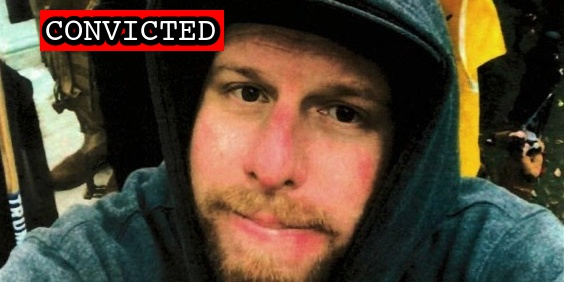
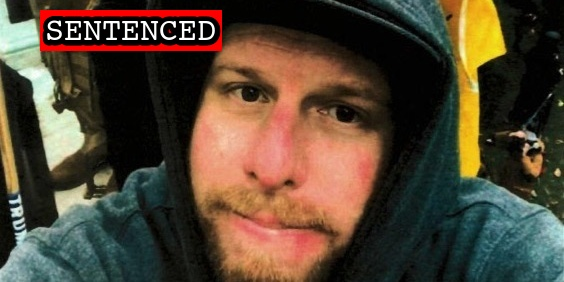
Add missing

Changed region(s): [[0.1809, 0.0567, 0.3316, 0.1702], [0.0603, 0.0567, 0.1507, 0.1702], [0.3918, 0.0284, 0.422, 0.1702]]

diff --git a/docs/_suspects/patrick-mccaughey.md b/docs/_suspects/patrick-mccaughey.md
@@ -17,7 +17,7 @@ plea_hearing:
 trial_date: 2022-08-29
 trial_type: Bench Trial
 jury_selection:
-sentencing: 2023-01-26
+sentencing: 2023-04-14
 status_conference:
 age: 23
 occupation:
@@ -40,53 +40,54 @@ caseNumber: 21-cr-0040
 caseName: USA v. MCCAUGHEY
 judge: Trevor N. McFadden
 videos:
-- title: Exhibit 1.mp4 (0:03:57)
-  url: https://propublica-data-j6cases-videos.s3.us-east-1.amazonaws.com/9a9444c0ce2c013960702cde48001122.mp4
-- title: Exhibit 3.mp4 (0:00:28)
-  url: https://propublica-data-j6cases-videos.s3.us-east-1.amazonaws.com/b4e4ed60ce2c013960702cde48001122.mp4
-- title: Exhibit 2.mp4 (0:00:21)
-  url: https://propublica-data-j6cases-videos.s3.us-east-1.amazonaws.com/b8429ab0ce2c013960702cde48001122.mp4
-- title: Exhibit 4.mp4 (0:00:24)
-  url: https://propublica-data-j6cases-videos.s3.us-east-1.amazonaws.com/b9b87ee0ce2c013960702cde48001122.mp4
+  - title: Exhibit 1.mp4 (0:03:57)
+    url: https://propublica-data-j6cases-videos.s3.us-east-1.amazonaws.com/9a9444c0ce2c013960702cde48001122.mp4
+  - title: Exhibit 3.mp4 (0:00:28)
+    url: https://propublica-data-j6cases-videos.s3.us-east-1.amazonaws.com/b4e4ed60ce2c013960702cde48001122.mp4
+  - title: Exhibit 2.mp4 (0:00:21)
+    url: https://propublica-data-j6cases-videos.s3.us-east-1.amazonaws.com/b8429ab0ce2c013960702cde48001122.mp4
+  - title: Exhibit 4.mp4 (0:00:24)
+    url: https://propublica-data-j6cases-videos.s3.us-east-1.amazonaws.com/b9b87ee0ce2c013960702cde48001122.mp4
 charges:
-- code: 18 USC § 111(a)(1), 2
-  title: Assaulting, resisting, or impeding certain officers or employees (Aiding and Abetting)
-  url: https://www.law.cornell.edu/uscode/text/18/111
-  felony: true
-- code: 18 USC § 111(a)(1) and (b)
-  title: Assaulting, resisting, or impeding certain officers or employees (using a deadly or dangerous weapon)
-  url: https://www.law.cornell.edu/uscode/text/18/111
-  felony: true
-- code: 18 USC § 111(a)(1)
-  title: Assaulting, resisting, or impeding certain officers or employees
-  url: https://www.law.cornell.edu/uscode/text/18/111
-  felony: true
-- code: 18 USC § 1512(c)(2),2
-  title: Obstruction of an Official Proceeding (Aiding and Abetting)
-  url: https://www.law.cornell.edu/uscode/text/18/1512
-  felony: true
-- code: 18 USC § 231(a)(3)
-  title: Obstruction of Law Enforcement During Civil Disorder
-  url: https://www.law.cornell.edu/uscode/text/18/231
-  felony: true
-- code: 18 USC § 1752(a)(2), (b)(1)(A)
-  title: Entering a restricted building or grounds with a dangerous or deadly weapon
-  url: https://www.law.cornell.edu/uscode/text/18/1752
-  felony: true
-- code: 18 USC § 1752(a)(4), (b)(1)(A)
-  title: Entering a restricted building or grounds with a dangerous or deadly weapon
-  url: https://www.law.cornell.edu/uscode/text/18/1752
-  felony: true
-- code: 40 USC § 5104(e)(2)(D)
-  title: Disorderly Conduct in a Capitol Building
-  url: https://www.law.cornell.edu/uscode/text/40/5104
-  felony: false
-- code: 40 USC § 5104(e)(2)(F)
-  title: Act of physical violence on Capitol grounds
-  url: https://www.law.cornell.edu/uscode/text/40/5104
-  felony: false
+  - code: 18 USC § 111(a)(1), 2
+    title: Assaulting, resisting, or impeding certain officers or employees (Aiding and Abetting)
+    url: https://www.law.cornell.edu/uscode/text/18/111
+    felony: true
+  - code: 18 USC § 111(a)(1) and (b)
+    title: Assaulting, resisting, or impeding certain officers or employees (using a deadly or dangerous weapon)
+    url: https://www.law.cornell.edu/uscode/text/18/111
+    felony: true
+  - code: 18 USC § 111(a)(1)
+    title: Assaulting, resisting, or impeding certain officers or employees
+    url: https://www.law.cornell.edu/uscode/text/18/111
+    felony: true
+  - code: 18 USC § 1512(c)(2),2
+    title: Obstruction of an Official Proceeding (Aiding and Abetting)
+    url: https://www.law.cornell.edu/uscode/text/18/1512
+    felony: true
+  - code: 18 USC § 231(a)(3)
+    title: Obstruction of Law Enforcement During Civil Disorder
+    url: https://www.law.cornell.edu/uscode/text/18/231
+    felony: true
+  - code: 18 USC § 1752(a)(2), (b)(1)(A)
+    title: Entering a restricted building or grounds with a dangerous or deadly weapon
+    url: https://www.law.cornell.edu/uscode/text/18/1752
+    felony: true
+  - code: 18 USC § 1752(a)(4), (b)(1)(A)
+    title: Entering a restricted building or grounds with a dangerous or deadly weapon
+    url: https://www.law.cornell.edu/uscode/text/18/1752
+    felony: true
+  - code: 40 USC § 5104(e)(2)(D)
+    title: Disorderly Conduct in a Capitol Building
+    url: https://www.law.cornell.edu/uscode/text/40/5104
+    felony: false
+  - code: 40 USC § 5104(e)(2)(F)
+    title: Act of physical violence on Capitol grounds
+    url: https://www.law.cornell.edu/uscode/text/40/5104
+    felony: false
 sentence:
 ---
+
 - [DOJ Press Release](https://www.justice.gov/usao-dc/pr/connecticut-man-charged-assaulting-officer-during-us-capitol-breach)
 - [News Report](https://www.cnbc.com/2021/01/20/connecticut-man-arrested-for-crushin.html)
 - [Complaint](https://www.justice.gov/opa/page/file/1356781/download)

diff --git a/docs/_suspects/david-judd.md b/docs/_suspects/david-judd.md
@@ -4,13 +4,13 @@ lastName: Judd
 hashtag: CapitolWig
 aka:
 residence: Texas
-status: Convicted
+status: Sentenced
 date: 2021-03-23
 charged: 2021-03-23
 indicted: 2021-06-16
 convicted: 2022-08-23
 acquitted:
-sentenced:
+sentenced: 2023-02-27
 dismissed:
 deceased:
 plea_hearing:
@@ -41,16 +41,21 @@ caseName: USA v. JUDD
 judge: Trevor N. McFadden
 videos:
 charges:
-- code: 18 USC § 1512(c)(2)
-  title: Obstruction of an Official Proceeding
-  url: https://www.law.cornell.edu/uscode/text/18/1512
-  felony: true
-- code: 18 USC § 111(a)(1)
-  title: Assaulting, resisting, or impeding certain officers or employees
-  url: https://www.law.cornell.edu/uscode/text/18/111
-  felony: true
+  - code: 18 USC § 1512(c)(2)
+    title: Obstruction of an Official Proceeding
+    url: https://www.law.cornell.edu/uscode/text/18/1512
+    felony: true
+  - code: 18 USC § 111(a)(1)
+    title: Assaulting, resisting, or impeding certain officers or employees
+    url: https://www.law.cornell.edu/uscode/text/18/111
+    felony: true
 sentence:
+  - 32 months incarceration
+  - 2 years probation
+  - $5691 fine
+  - $2000 restitution
 ---
+
 - [News Report](https://www.dallasnews.com/news/crime/2021/03/26/dallas-fbi-arrests-its-20th-alleged-rioter-for-storming-of-the-capitol-during-uprising/)
 - [Complaint](https://www.justice.gov/usao-dc/case-multi-defendant/file/1380666/download)
 - [Statement of Facts](https://www.justice.gov/usao-dc/case-multi-defendant/file/1380671/download)
@@ -59,3 +64,4 @@ sentence:
 - [Arraignment and Status Conference Hearing Transcript](https://extremism.gwu.edu/sites/g/files/zaxdzs2191/f/McCaughey%20III%20et%20al%20Arraignment%20Hearing%20Status%20and%20Conference%20Transcript.pdf)
 - [Statement of Offense](https://www.justice.gov/usao-dc/case-multi-defendant/file/1528246/download)
 - [DOJ Statement (Conviction)](https://www.justice.gov/usao-dc/pr/three-men-found-guilty-assaulting-officers-during-jan-6-capitol-breach)
+- [Judgement](https://storage.courtlistener.com/recap/gov.uscourts.dcd.230264/gov.uscourts.dcd.230264.557.0.pdf)

diff --git a/docs/_suspects/david-mehaffie.md b/docs/_suspects/david-mehaffie.md
@@ -17,7 +17,7 @@ plea_hearing:
 trial_date: 2022-08-29
 trial_type: Bench Trial
 jury_selection:
-sentencing: 2023-02-24
+sentencing:
 status_conference:
 age:
 occupation:
@@ -41,23 +41,24 @@ caseName: USA v. MEHAFFIE
 judge: Trevor N. McFadden
 videos:
 charges:
-- code: 18 USC § 111(a)(1), 2
-  title: Assaulting, resisting, or impeding certain officers or employees (Aiding and Abetting)
-  url: https://www.law.cornell.edu/uscode/text/18/111
-  felony: true
-- code: 18 USC § 231(a)(3)
-  title: Obstruction of Law Enforcement During Civil Disorder
-  url: https://www.law.cornell.edu/uscode/text/18/231
-  felony: true
-- code: 40 USC § 5104(e)(2)(D)
-  title: Disorderly Conduct in a Capitol Building
-  url: https://www.law.cornell.edu/uscode/text/40/5104
-  felony: false
-- code: 40 USC § 5104(e)(2)(F)
-  title: Act of physical violence on Capitol grounds
-  url: https://www.law.cornell.edu/uscode/text/40/5104
-  felony: false
+  - code: 18 USC § 111(a)(1), 2
+    title: Assaulting, resisting, or impeding certain officers or employees (Aiding and Abetting)
+    url: https://www.law.cornell.edu/uscode/text/18/111
+    felony: true
+  - code: 18 USC § 231(a)(3)
+    title: Obstruction of Law Enforcement During Civil Disorder
+    url: https://www.law.cornell.edu/uscode/text/18/231
+    felony: true
+  - code: 40 USC § 5104(e)(2)(D)
+    title: Disorderly Conduct in a Capitol Building
+    url: https://www.law.cornell.edu/uscode/text/40/5104
+    felony: false
+  - code: 40 USC § 5104(e)(2)(F)
+    title: Act of physical violence on Capitol grounds
+    url: https://www.law.cornell.edu/uscode/text/40/5104
+    felony: false
 sentence:
 ---
+
 - [News Report](https://www.huffpost.com/entry/fbi-arrests-tunnel-commander-anti-abortion-capitol-riot_n_61152eb9e4b07c1403123f7e)
 - [Indictment](https://www.justice.gov/usao-dc/press-release/file/1424526/download)

diff --git a/docs/_suspects/derek-sulenta.md b/docs/_suspects/derek-sulenta.md
@@ -4,13 +4,13 @@ lastName: Sulenta
 hashtag:
 aka:
 residence: California
-status: Convicted
+status: Sentenced
 date: 2022-06-06
 charged: 2022-06-06
 indicted:
 convicted: 2022-11-08
 acquitted:
-sentenced:
+sentenced: 2023-02-22
 dismissed:
 deceased:
 plea_hearing: 2022-11-08
@@ -41,12 +41,16 @@ caseName: USA v. SULENTA
 judge: Tanya S. Chutkan
 videos:
 charges:
-- code: 40 USC § 5104(e)(2)(G)
-  title: Parading, demonstrating or picketing in a Capitol building
-  url: https://www.law.cornell.edu/uscode/text/40/5104
-  felony: false
+  - code: 40 USC § 5104(e)(2)(G)
+    title: Parading, demonstrating or picketing in a Capitol building
+    url: https://www.law.cornell.edu/uscode/text/40/5104
+    felony: false
 sentence:
+  - 14 days incarceration
+  - 480 hours community service
+  - $500 restitution
 ---
+
 - [News Report](https://www.msn.com/en-us/news/politics/doj-says-man-arrested-in-long-beach-bragged-dude-we-breached-the-capital/ar-AA10mJsN)
 - [Complaint](https://www.justice.gov/usao-dc/case-multi-defendant/file/1524366/download)
 - [Statement of Facts](https://www.justice.gov/usao-dc/case-multi-defendant/file/1524371/download)

diff --git a/docs/_suspects/elizabeth-williams.md b/docs/_suspects/elizabeth-williams.md
@@ -17,7 +17,7 @@ plea_hearing: 2022-02-03
 trial_date:
 trial_type:
 jury_selection:
-sentencing: 2023-03-03
+sentencing:
 status_conference:
 age: 31
 occupation: Lifestyle Coach
@@ -41,12 +41,13 @@ caseName: USA v. WILLIAMS
 judge: James E. Boasberg
 videos:
 charges:
-- code: 40 USC § 5104(e)(2)(G)
-  title: Parading, demonstrating or picketing in a Capitol building
-  url: https://www.law.cornell.edu/uscode/text/40/5104
-  felony: false
+  - code: 40 USC § 5104(e)(2)(G)
+    title: Parading, demonstrating or picketing in a Capitol building
+    url: https://www.law.cornell.edu/uscode/text/40/5104
+    felony: false
 sentence:
 ---
+
 - [News Report](https://www.houstonpublicmedia.org/articles/news/criminal-justice/2021/03/30/394724/texas-lifestyle-coach-and-her-boyfriend-arrested-for-joining-capitol-insurrection-fbi-says/)
 - [Complaint](https://www.justice.gov/usao-dc/case-multi-defendant/file/1386551/download)
 - [Statement of Facts](https://www.justice.gov/usao-dc/case-multi-defendant/file/1386556/download)

diff --git a/docs/_suspects/jorge-riley.md b/docs/_suspects/jorge-riley.md
@@ -8,16 +8,16 @@ status: Indicted
 date: 2021-01-19
 charged: 2021-01-19
 indicted: 2021-02-03
-convicted: 
+convicted:
 acquitted:
-sentenced: 
-dismissed: 
+sentenced:
+dismissed:
 deceased:
 plea_hearing: 2023-03-07
 trial_date:
 trial_type:
 jury_selection:
-sentencing:
+sentencing: 2023-09-06
 status_conference:
 age: 42
 occupation:
@@ -30,7 +30,7 @@ courtroom:
 courthouse:
 raid:
 perpwalk:
-quote: 'We broke windows. We went into the door. We pushed our way in.'
+quote: "We broke windows. We went into the door. We pushed our way in."
 title: Jorge Riley charged on January 19, 2021
 description: Click for latest case details. Suspects innocent until proven guilty.
 author: seditiontrack
@@ -43,6 +43,7 @@ videos:
 charges:
 sentence:
 ---
+
 - [News Report](https://nypost.com/2021/01/19/gop-activist-jorge-riley-arrested-in-capitol-hill-attack/)
 - [Statement of Facts](https://www.justice.gov/opa/page/file/1357041/download)
 - [Complaint](https://www.justice.gov/opa/page/file/1357046/download)

diff --git a/docs/_suspects/bradley-bennett.md b/docs/_suspects/bradley-bennett.md
@@ -14,9 +14,9 @@ sentenced:
 dismissed:
 deceased:
 plea_hearing:
-trial_date: 2023-02-21
-trial_type: Jury Trial
-jury_selection: 2023-02-21
+trial_date:
+trial_type:
+jury_selection:
 sentencing:
 status_conference: 2023-03-24
 age: 41
@@ -43,6 +43,7 @@ videos:
 charges:
 sentence:
 ---
+
 - [News Report](https://www.houstonpublicmedia.org/articles/news/criminal-justice/2021/03/30/394724/texas-lifestyle-coach-and-her-boyfriend-arrested-for-joining-capitol-insurrection-fbi-says/)
 - [Complaint](https://www.justice.gov/usao-dc/case-multi-defendant/file/1386551/download)
 - [Statement of Facts](https://www.justice.gov/usao-dc/case-multi-defendant/file/1386556/download)

diff --git a/docs/_suspects/gabriel-garcia.md b/docs/_suspects/gabriel-garcia.md
@@ -43,6 +43,7 @@ videos:
 charges:
 sentence:
 ---
+
 - [News Report](https://www.miamiherald.com/news/local/crime/article248608940.html)
 - [Statement of Facts](https://www.justice.gov/opa/page/file/1356776/download)
 - [Complaint](https://www.justice.gov/opa/page/file/1356771/download)
